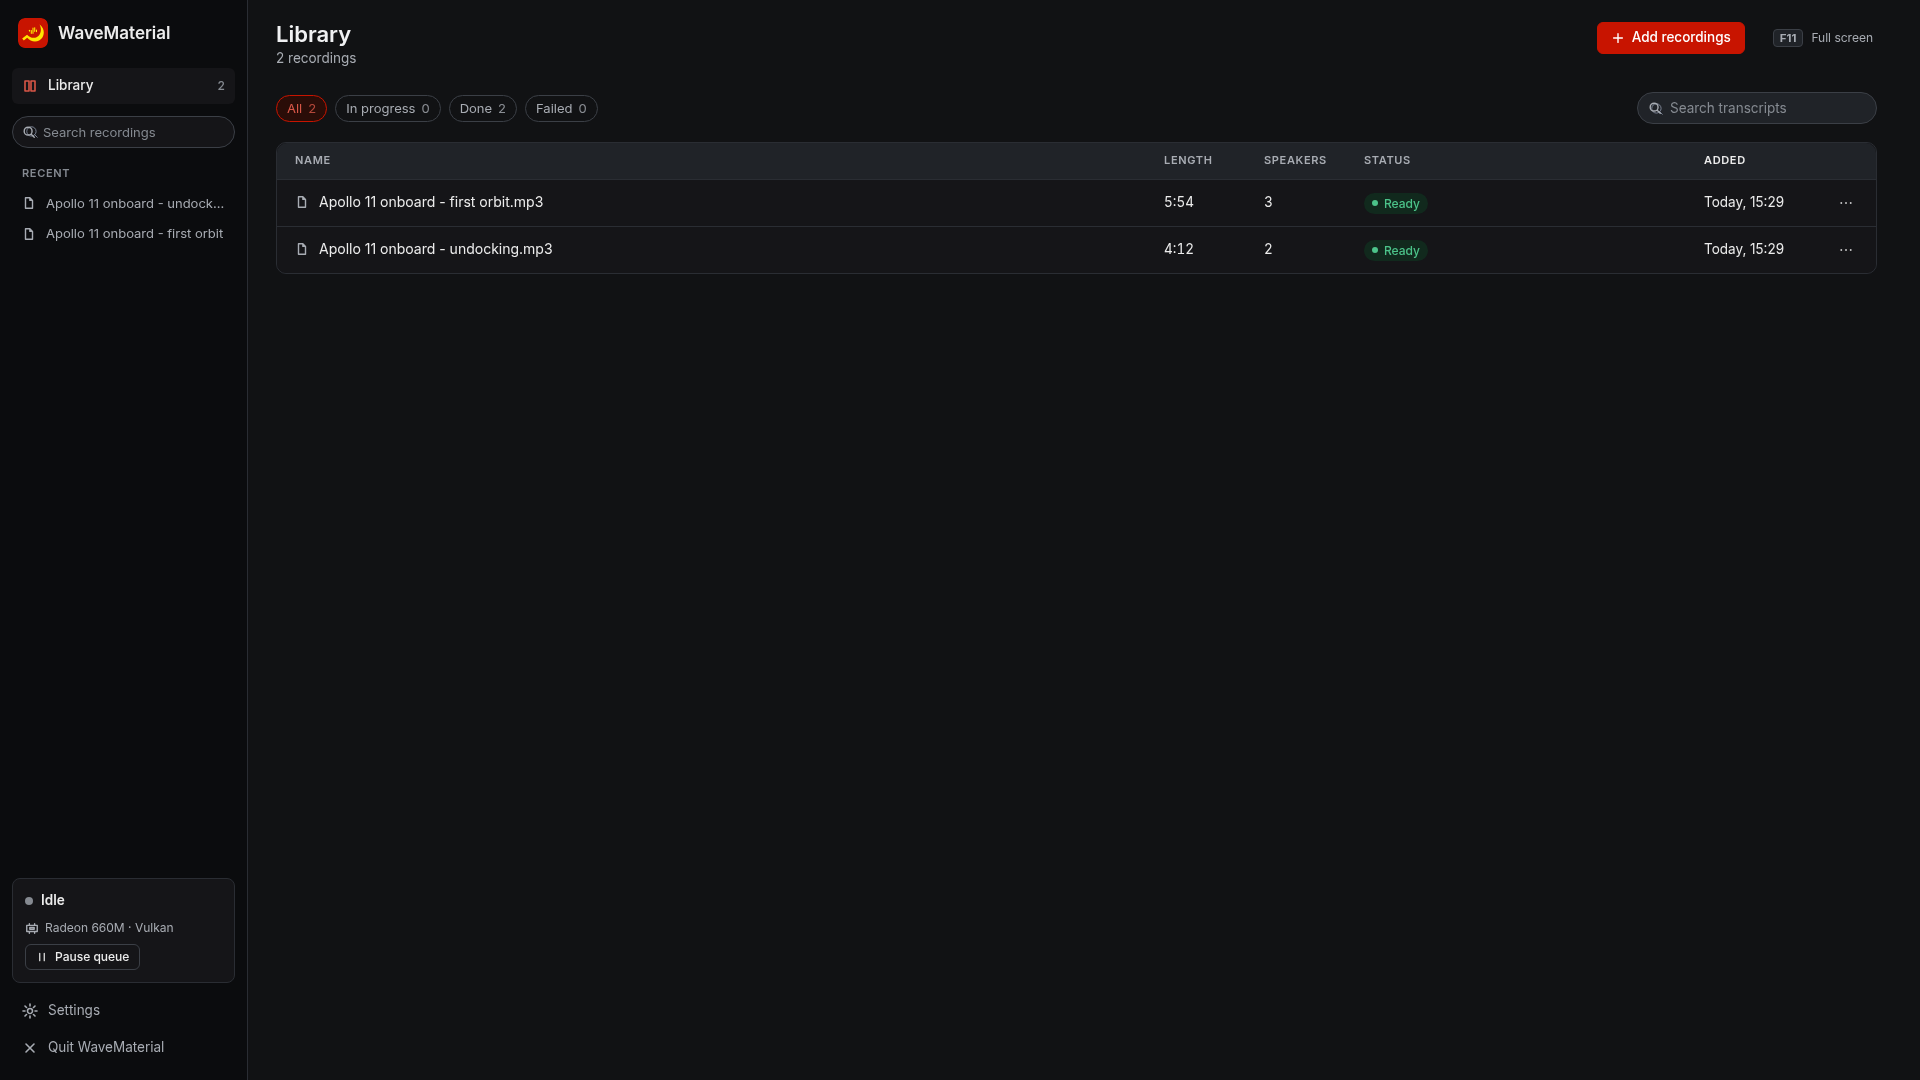
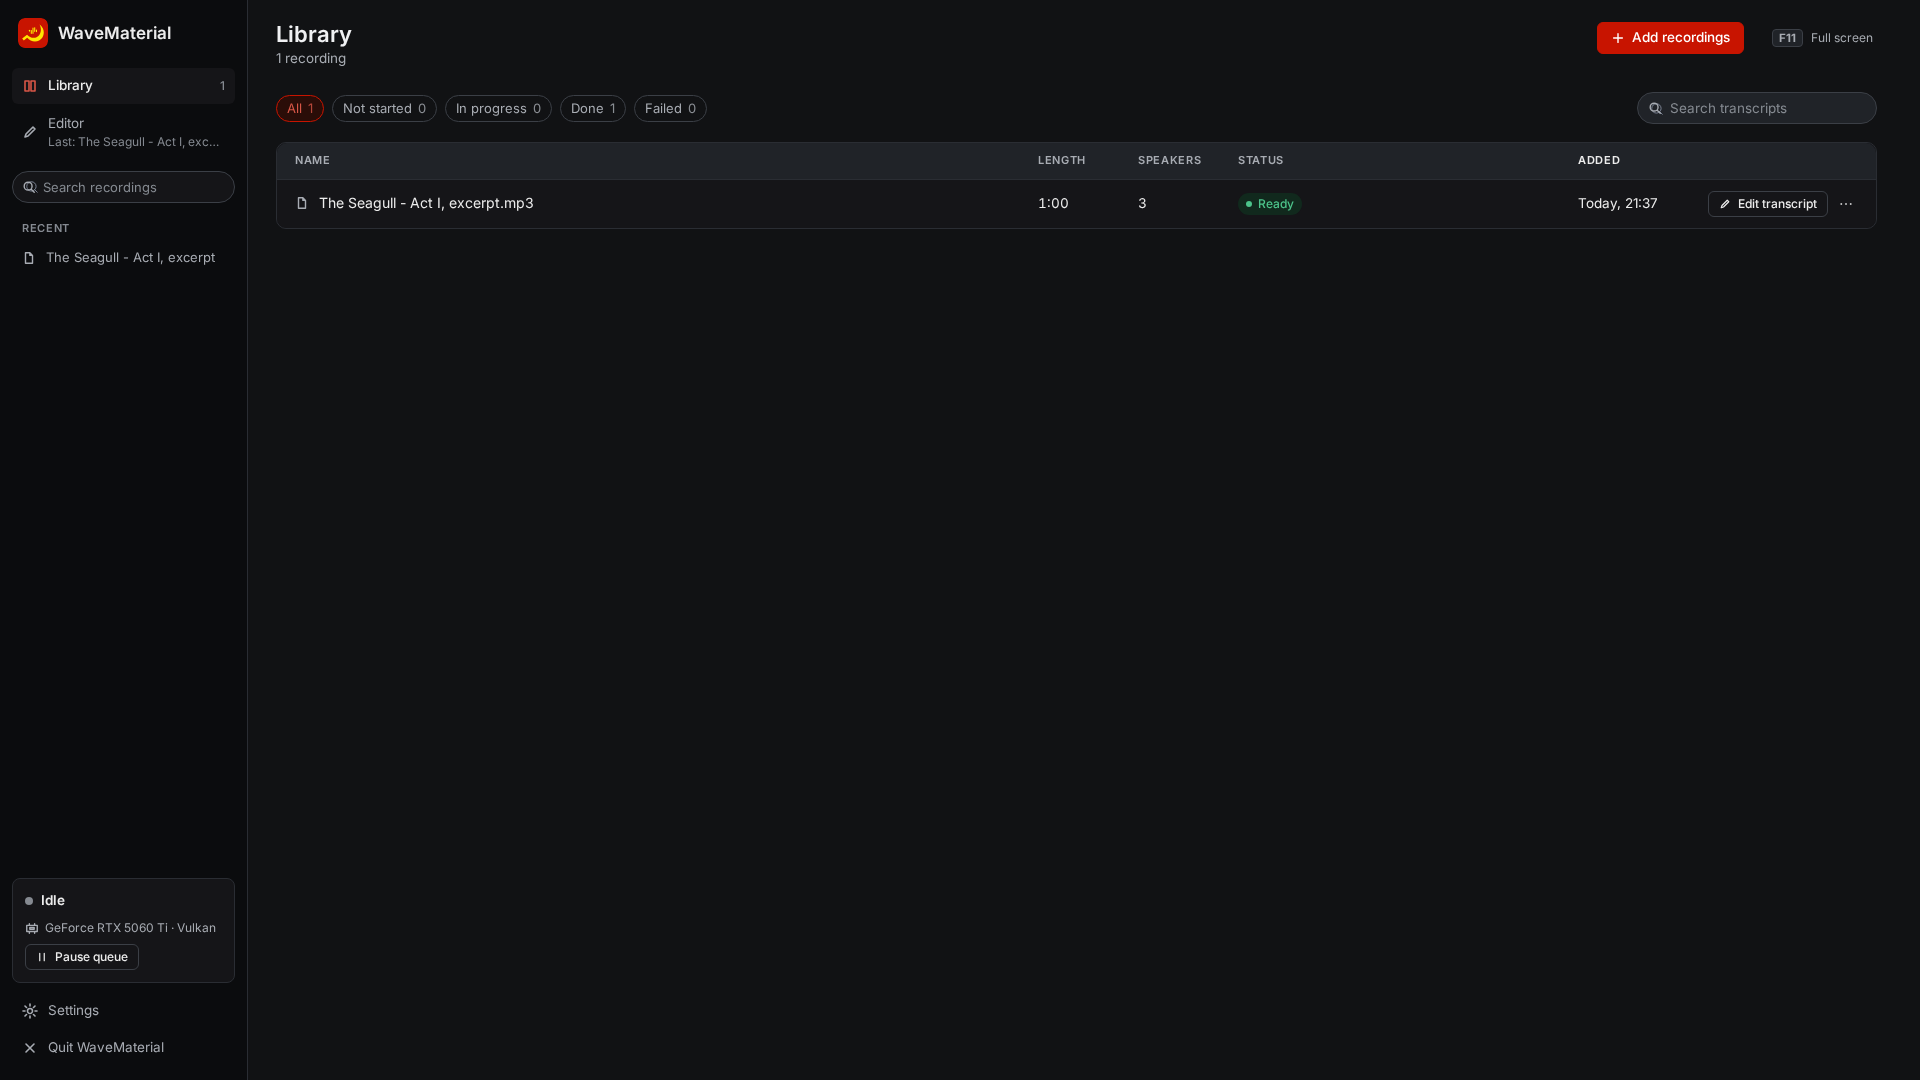
docs(usage): 1.2.0 screenshots: Add to library, Not started, Edit transcript
make.py screenshots now also takes 03 (the Add dialog with its two buttons),
the new 29 (a recording added but not started), 06 (the library with Edit
transcript and the sidebar's Editor item), and 08 (the row menu), and adds
the recording through Add to library, then Start. The update stand-in offers
the app's next patch version, and WM_CHROMIUM picks another Chromium build.

diff --git a/scripts/demo/demo_shots.py b/scripts/demo/demo_shots.py
@@ -5,6 +5,7 @@ from __future__ import annotations
 
 import json
 import os
+import re
 import shutil
 import subprocess
 import threading
@@ -139,6 +140,15 @@ class UpdateStandIn:
         self.server.shutdown()
 
 
+def next_patch() -> str:
+    """The app's version with the patch number raised: what the stand-in offers."""
+    init = (
+        Path(__file__).resolve().parents[2] / "src" / "wavematerial" / "__init__.py"
+    ).read_text()
+    major, minor, patch = re.search(r'__version__ = "(\d+)\.(\d+)\.(\d+)"', init).groups()
+    return f"{major}.{minor}.{int(patch) + 1}"
+
+
 def screenshots() -> int:
     with sync_playwright() as p:
         b, ctx = browser(p)
@@ -153,20 +163,51 @@ def screenshots() -> int:
         finally:
             first.stop()
 
-        log("05: a recording's details while it is transcribed")
+        log("03: the Add recordings dialog")
         home = make_home("shots")
         main = Server(home)
         try:
             page.goto(main.url("/"))
-            add_recordings(page)
+            page.locator("text=Add recordings…").first.click()
+            page.wait_for_selector("#add-form")
+            page.locator("text=Choose files…").first.click()
+            page.wait_for_selector("#add-files .file-row", timeout=10000)
+            page.select_option("select[name=min_speakers]", SPEAKERS[0])
+            page.select_option("select[name=max_speakers]", SPEAKERS[1])
+            terms = page.locator("#add-form .tags input").first
+            terms.click()
+            terms.type(KEY_TERM)
+            terms.press("Enter")
+            page.locator("#add-submit").focus()
+            time.sleep(0.4)
+            save(page, "03-add-recordings.png")
+
+            log("29: added to the library, not started")
+            page.locator("#add-later").click()
             page.wait_for_url("**/library**")  # adding from the landing screen goes there
+            page.wait_for_selector("#start-all", timeout=10000)
+            time.sleep(0.6)
+            save(page, "29-library-not-started.png")
+
+            log("05: a recording's details while it is transcribed")
+            row = page.locator(".job-row").filter(has_text="Act I")
+            row.get_by_role("button", name="Start", exact=False).first.click()
             page.wait_for_selector("text=Transcribing", timeout=60000)
             time.sleep(2)  # into the first stages (a minute of audio is quick)
-            page.locator(".job-row").filter(has_text="Act I").locator(".row-open").click()
+            row.locator(".row-open").click()
             page.wait_for_selector("[data-copy-report]")
             time.sleep(1)
             save(page, "05-job-details.png")
             wait_until(page, lambda: jobs_done(page, main, 1), timeout=1200)
+
+            log("06 and 08: the library with the finished recording, and its row menu")
+            page.goto(main.url("/library"))
+            page.wait_for_selector("text=Edit transcript")
+            time.sleep(0.6)
+            save(page, "06-library.png")
+            page.locator(".job-row").first.locator("summary").click()
+            time.sleep(0.4)
+            save(page, "08-library-row-menu.png")
 
             log("26: Settings, lower part")
             page.goto(main.url("/settings"))
@@ -176,8 +217,9 @@ def screenshots() -> int:
         finally:
             main.stop()
 
-        log("28: an update is available (a local stand-in offers 1.1.1)")
-        stand_in = UpdateStandIn(WORK / "update-stand-in", "1.1.1")
+        newer = next_patch()
+        log(f"28: an update is available (a local stand-in offers {newer})")
+        stand_in = UpdateStandIn(WORK / "update-stand-in", newer)
         upd = Server(home, env={"WAVEMATERIAL_UPDATE_SERVER": stand_in.base}, pretend="tarball")
         try:
             page.goto(upd.url("/settings"))

diff --git a/scripts/demo/make.py b/scripts/demo/make.py
@@ -41,7 +41,7 @@ OUT_VIDEO = REPO / "dist" / "demo" / "wavematerial-demo.webm"
 SHOTS_DIR = REPO / "demo" / "usage"
 MODELS = Path.home() / ".local" / "share" / "wavematerial" / "models"
 SANDBOX_HOME = Path("/home/you")
-CHROMIUM = "/usr/bin/chromium"
+CHROMIUM = os.environ.get("WM_CHROMIUM", "/usr/bin/chromium")  # or another Chromium build
 ARCHIVE = "https://archive.org/download/seagull_0903_librivox"
 # (file on archive.org, its SHA-1, the name it gets in the demo, start and length in seconds)
 AUDIO = [

diff --git a/USAGE.md b/USAGE.md
@@ -62,7 +62,9 @@ them, as **Not started**, so you can collect recordings now and start them later
 **Start** on a recording, or **Start N not started** at the top of the library for all of
 them. Starting puts a recording at the end of the queue.
 
-![The Add recordings dialog with two files, a speaker range, and a key term](demo/usage/03-add-recordings.png)
+![The library with a recording added but not started, and its Start buttons](demo/usage/29-library-not-started.png)
+
+![The Add recordings dialog with a file, a speaker range, a key term, and its two buttons](demo/usage/03-add-recordings.png)
 
 ## While recordings are transcribed
 
@@ -88,7 +90,7 @@ Every recording, with its length, the number of speakers found, and its status. 
 filter by status. **Edit transcript** on a finished recording (or its name) opens it in the
 editor; its details drawer has the same button.
 
-![The library with two finished recordings](demo/usage/06-library.png)
+![The library with a finished recording and its Edit transcript button](demo/usage/06-library.png)
 
 **Search transcripts** finds recordings by what was said in them.
 

diff --git a/scripts/demo/README.md b/scripts/demo/README.md
@@ -7,13 +7,15 @@ It is a maintainers' tool and runs on Linux only.
 uv run --no-project --python 3.12.13 --with playwright --with pillow \
     scripts/demo/make.py check        # transcribe the demo recordings once, print them
 uv run --no-project --python 3.12.13 --with playwright --with pillow \
-    scripts/demo/make.py screenshots  # 01, 05, 26, 28 into demo/usage/
+    scripts/demo/make.py screenshots  # 01, 03, 05, 06, 08, 26, 28, 29 into demo/usage/
 uv run --no-project --python 3.12.13 --with playwright --with pillow \
     scripts/demo/make.py video        # dist/demo/wavematerial-demo.webm
 ```
 
-Needs `bwrap` (bubblewrap), `chromium`, `ffmpeg`, the repo's `uv sync` environment, and the
-speech models already downloaded (`uv run wavematerial models`).
+Needs `bwrap` (bubblewrap), `chromium` (or set `WM_CHROMIUM` to another Chromium build, such as
+Playwright's headless shell), `ffmpeg`, the repo's `uv sync` environment, and the speech
+models already downloaded (`uv run wavematerial models`). The other screenshots in
+`demo/usage/` are from 1.0.0.
 
 How it works:
 
